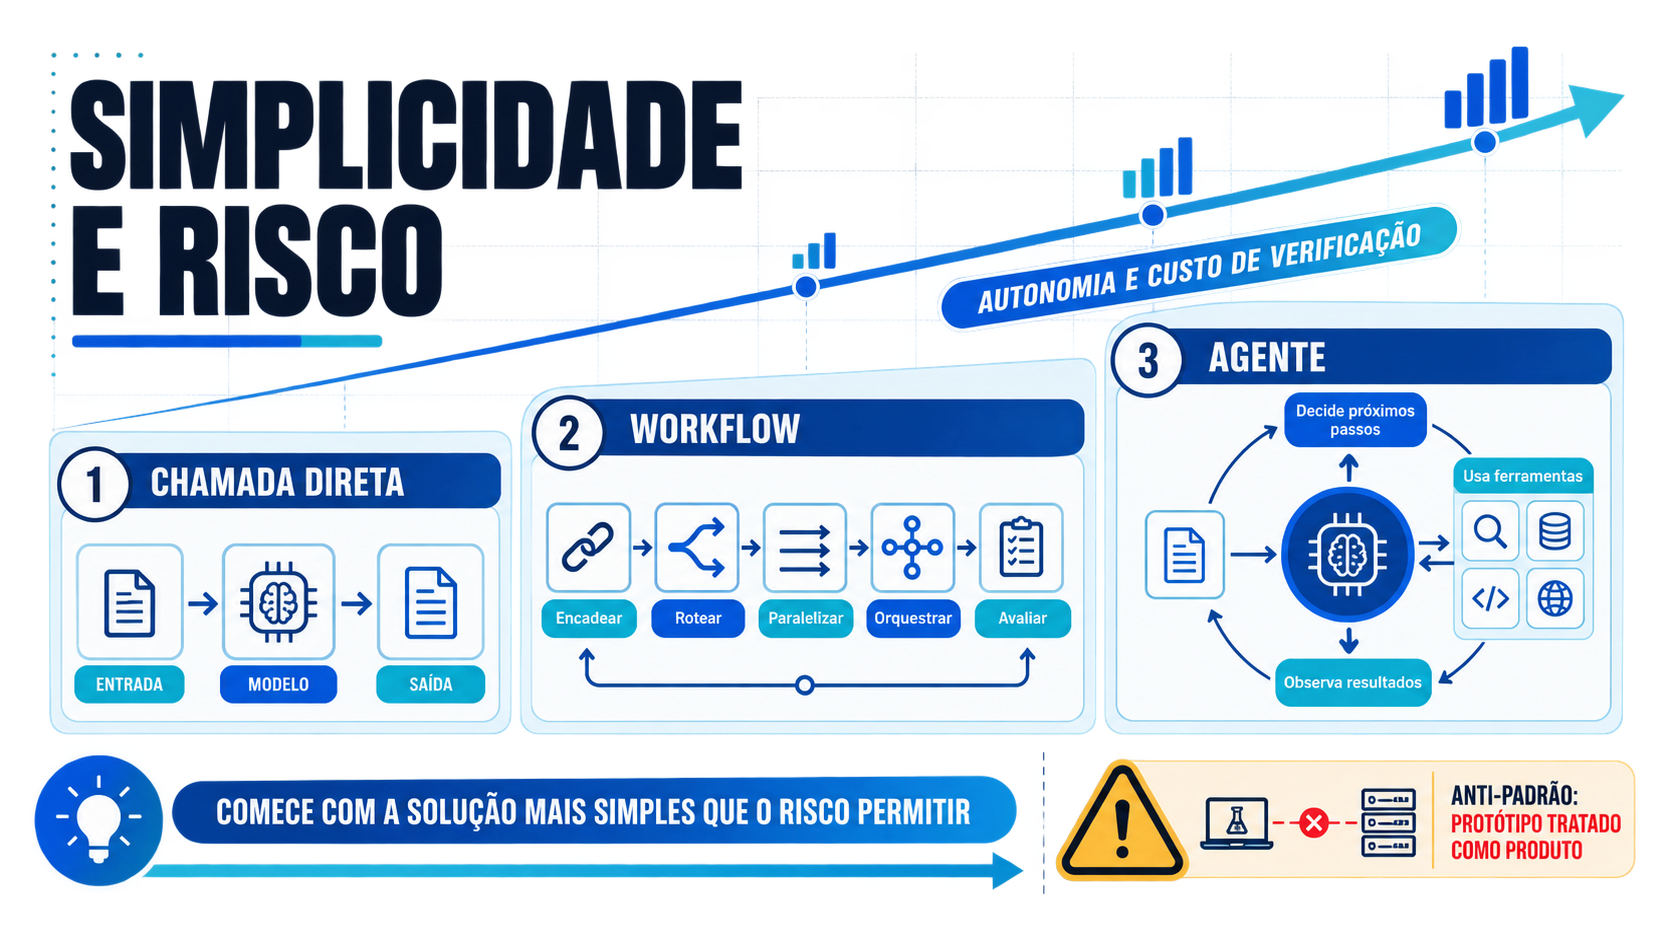
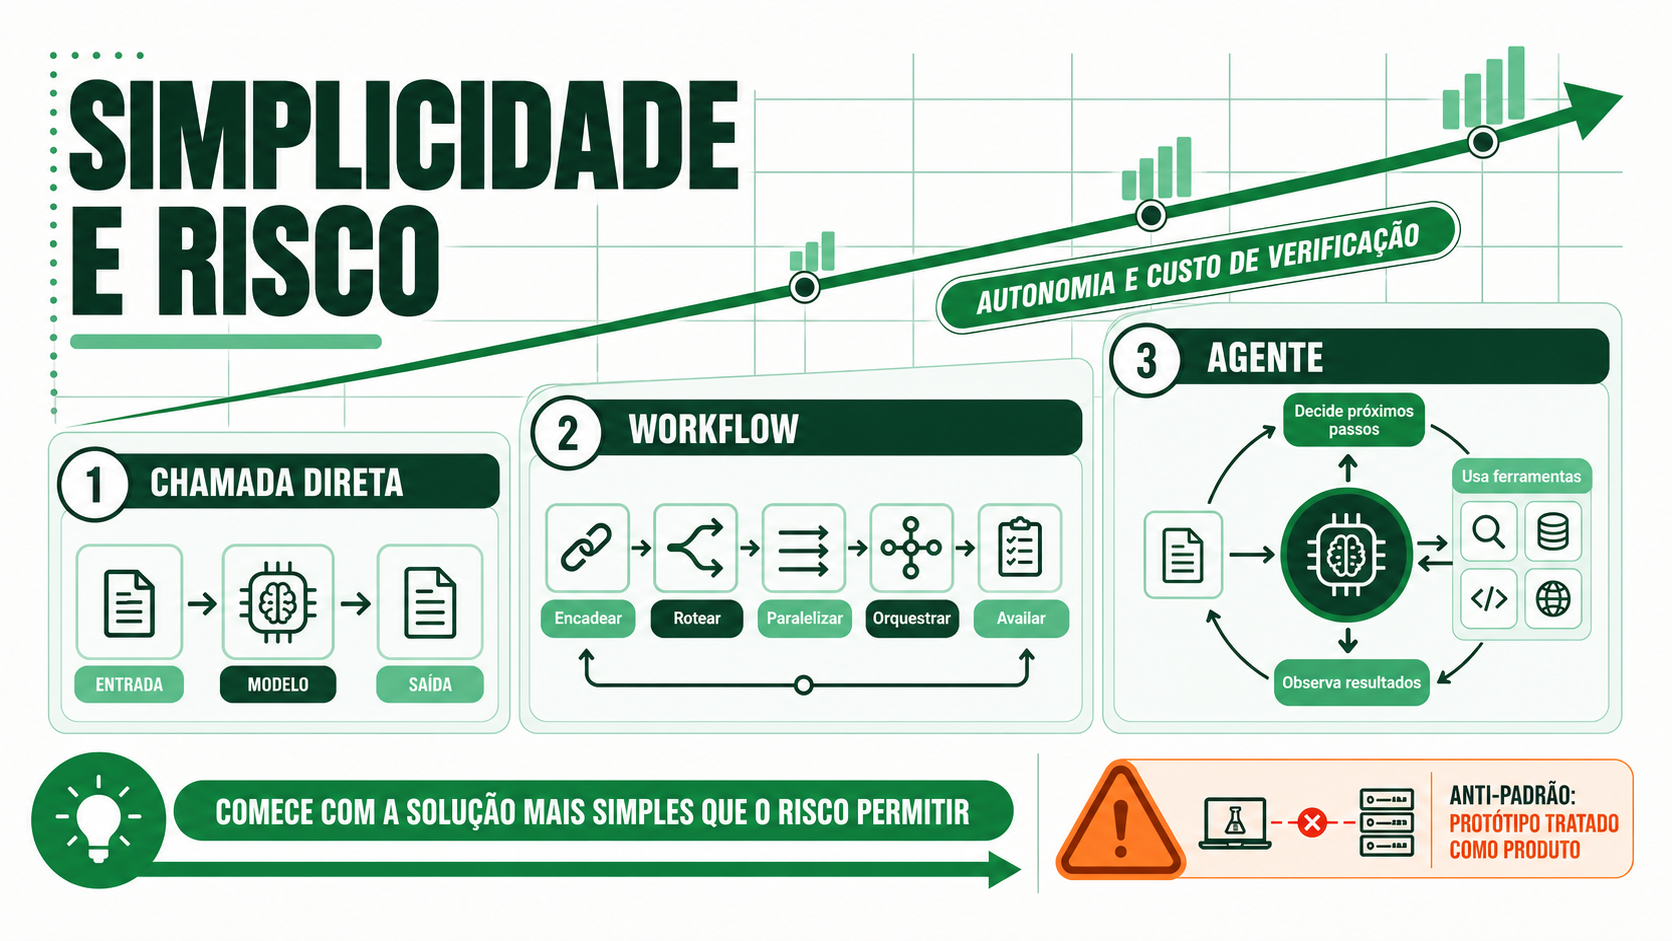
docs(s1): ajusta paleta dos infograficos

diff --git a/inbox/review/2026-08-22-prompt-infografico-ciclo-agentico.md b/inbox/review/2026-08-22-prompt-infografico-ciclo-agentico.md
@@ -17,7 +17,7 @@ Conteúdo textual obrigatório, grafado exatamente: “ENGENHARIA AGÊNTICA”, 
 
 Estilo visual: diagrama vetorial técnico, sóbrio e acadêmico, com a linguagem de uma prancha de arquitetura. Ícones lineares consistentes, setas semânticas, caixas claras, fundo com grade mínima. Sem representação antropomórfica do agente, sem robôs, sem cérebro humano, sem fotorrealismo, sem 3D, sem logotipos e sem marcas-d’água.
 
-Paleta de cores: azul-marinho #16243A e cobalto #254DB8 como base; ciano #5FC0D1 para o ciclo; âmbar #F2B84B para decisões humanas; papel #F2F6FB e branco #FFFFFF.
+Paleta de cores: verde-floresta #123C2B e verde-esmeralda #15803D como base; verde-menta #5FCF9B para o ciclo; laranja #F28C28 e laranja-escuro #C95D14 para decisões humanas; fundo verde muito claro #F2F8F4 e branco #FFFFFF.
 
 Tipografia: sans-serif condensada em negrito nos títulos e rótulos principais; sans-serif limpa nas legendas; português brasileiro correto e acentos preservados.
 

diff --git a/inbox/review/2026-08-22-prompt-infografico-software-1-2-3.md b/inbox/review/2026-08-22-prompt-infografico-software-1-2-3.md
@@ -17,7 +17,7 @@ Conteúdo textual obrigatório, grafado exatamente: “SOFTWARE 1.0”, “Códi
 
 Estilo visual: prancha de arquitetura acadêmica, vetorial, precisa e sóbria; ícones lineares; caixas e setas com espessura uniforme; grade técnica azul muito clara; composição inspirada em diagramas de arquitetura corporativa, sem aparência de slide genérico. Sem pessoas, sem fotorrealismo, sem 3D, sem logotipos e sem marcas-d’água.
 
-Paleta de cores: azul-marinho #16243A, cobalto #254DB8, ciano #5FC0D1, papel #F2F6FB, branco #FFFFFF; âmbar #F2B84B para destacar a janela de contexto.
+Paleta de cores: verde-floresta #123C2B, verde-esmeralda #15803D, verde-menta #5FCF9B, fundo verde muito claro #F2F8F4 e branco #FFFFFF; laranja #F28C28 e laranja-escuro #C95D14 para destacar a janela de contexto.
 
 Tipografia: sans-serif condensada em negrito nos títulos e sans-serif limpa nos rótulos; português brasileiro correto e acentos preservados.
 

diff --git a/inbox/review/2026-08-22-prompt-infografico-simplicidade-e-risco.md b/inbox/review/2026-08-22-prompt-infografico-simplicidade-e-risco.md
@@ -17,7 +17,7 @@ Conteúdo textual obrigatório, grafado exatamente: “SIMPLICIDADE E RISCO”, 
 
 Estilo visual: diagrama vetorial técnico e editorial, semelhante a uma prancha de arquitetura acadêmica. Nós retangulares claros, ícones lineares, setas direcionais com significado, grade técnica discreta e bastante espaço em branco. Sem robôs, sem pessoas, sem fotorrealismo, sem 3D, sem logotipos e sem marcas-d’água.
 
-Paleta de cores: azul-marinho #16243A, cobalto #254DB8, ciano #5FC0D1, papel #F2F6FB e branco #FFFFFF; âmbar #F2B84B somente para risco e anti-padrão.
+Paleta de cores: verde-floresta #123C2B, verde-esmeralda #15803D, verde-menta #5FCF9B, fundo verde muito claro #F2F8F4 e branco #FFFFFF; laranja #F28C28 e laranja-escuro #C95D14 somente para risco e anti-padrão.
 
 Tipografia: sans-serif condensada em negrito para títulos; sans-serif limpa para rótulos; português brasileiro correto e acentos preservados.
 

diff --git a/inbox/review/2026-08-22-prompt-infografico-regua-de-escolha.md b/inbox/review/2026-08-22-prompt-infografico-regua-de-escolha.md
@@ -17,7 +17,7 @@ Conteúdo textual obrigatório, grafado exatamente: “RÉGUA DE ESCOLHA”, “
 
 Estilo visual: prancha técnica de decisão, vetorial e acadêmica; linhas de cota, marcadores deslizantes, conectores precisos e ícones lineares mínimos. Grande clareza de leitura, sem aparência de dashboard comercial. Sem pessoas, sem fotorrealismo, sem 3D, sem logotipos e sem marcas-d’água.
 
-Paleta de cores: azul-marinho #16243A, cobalto #254DB8, ciano #5FC0D1, papel #F2F6FB, branco #FFFFFF; âmbar #F2B84B para o selo de decisão.
+Paleta de cores: verde-floresta #123C2B, verde-esmeralda #15803D, verde-menta #5FCF9B, fundo verde muito claro #F2F8F4 e branco #FFFFFF; laranja #F28C28 e laranja-escuro #C95D14 para o selo de decisão.
 
 Tipografia: sans-serif condensada em negrito nos títulos, sans-serif limpa nos rótulos, acentos corretos.
 
